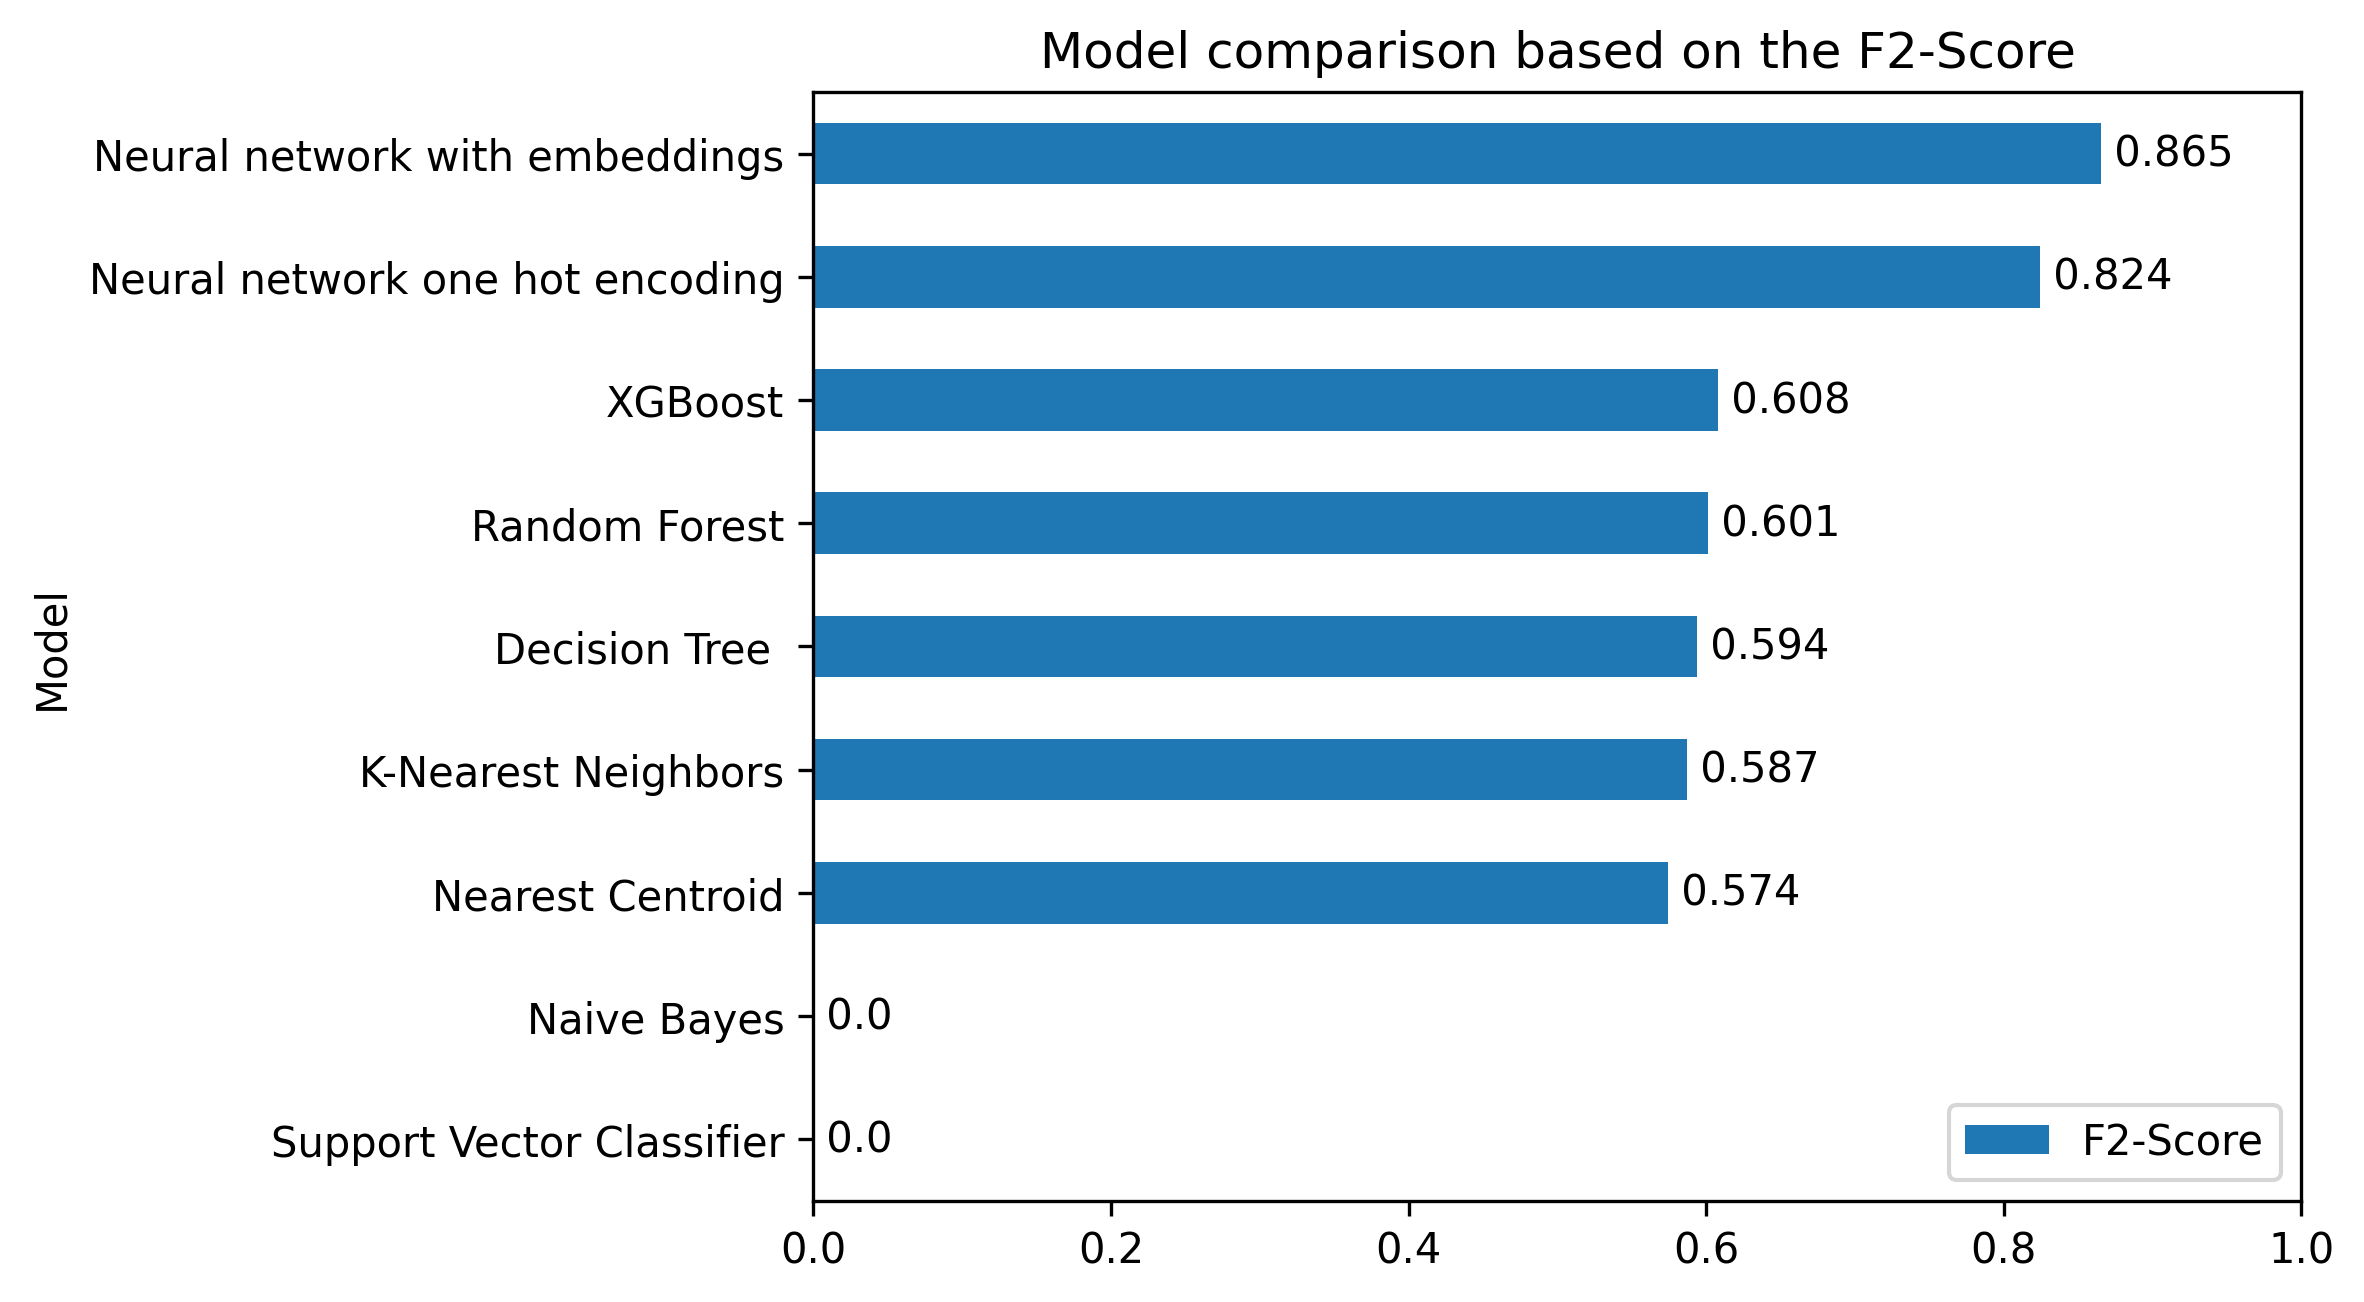
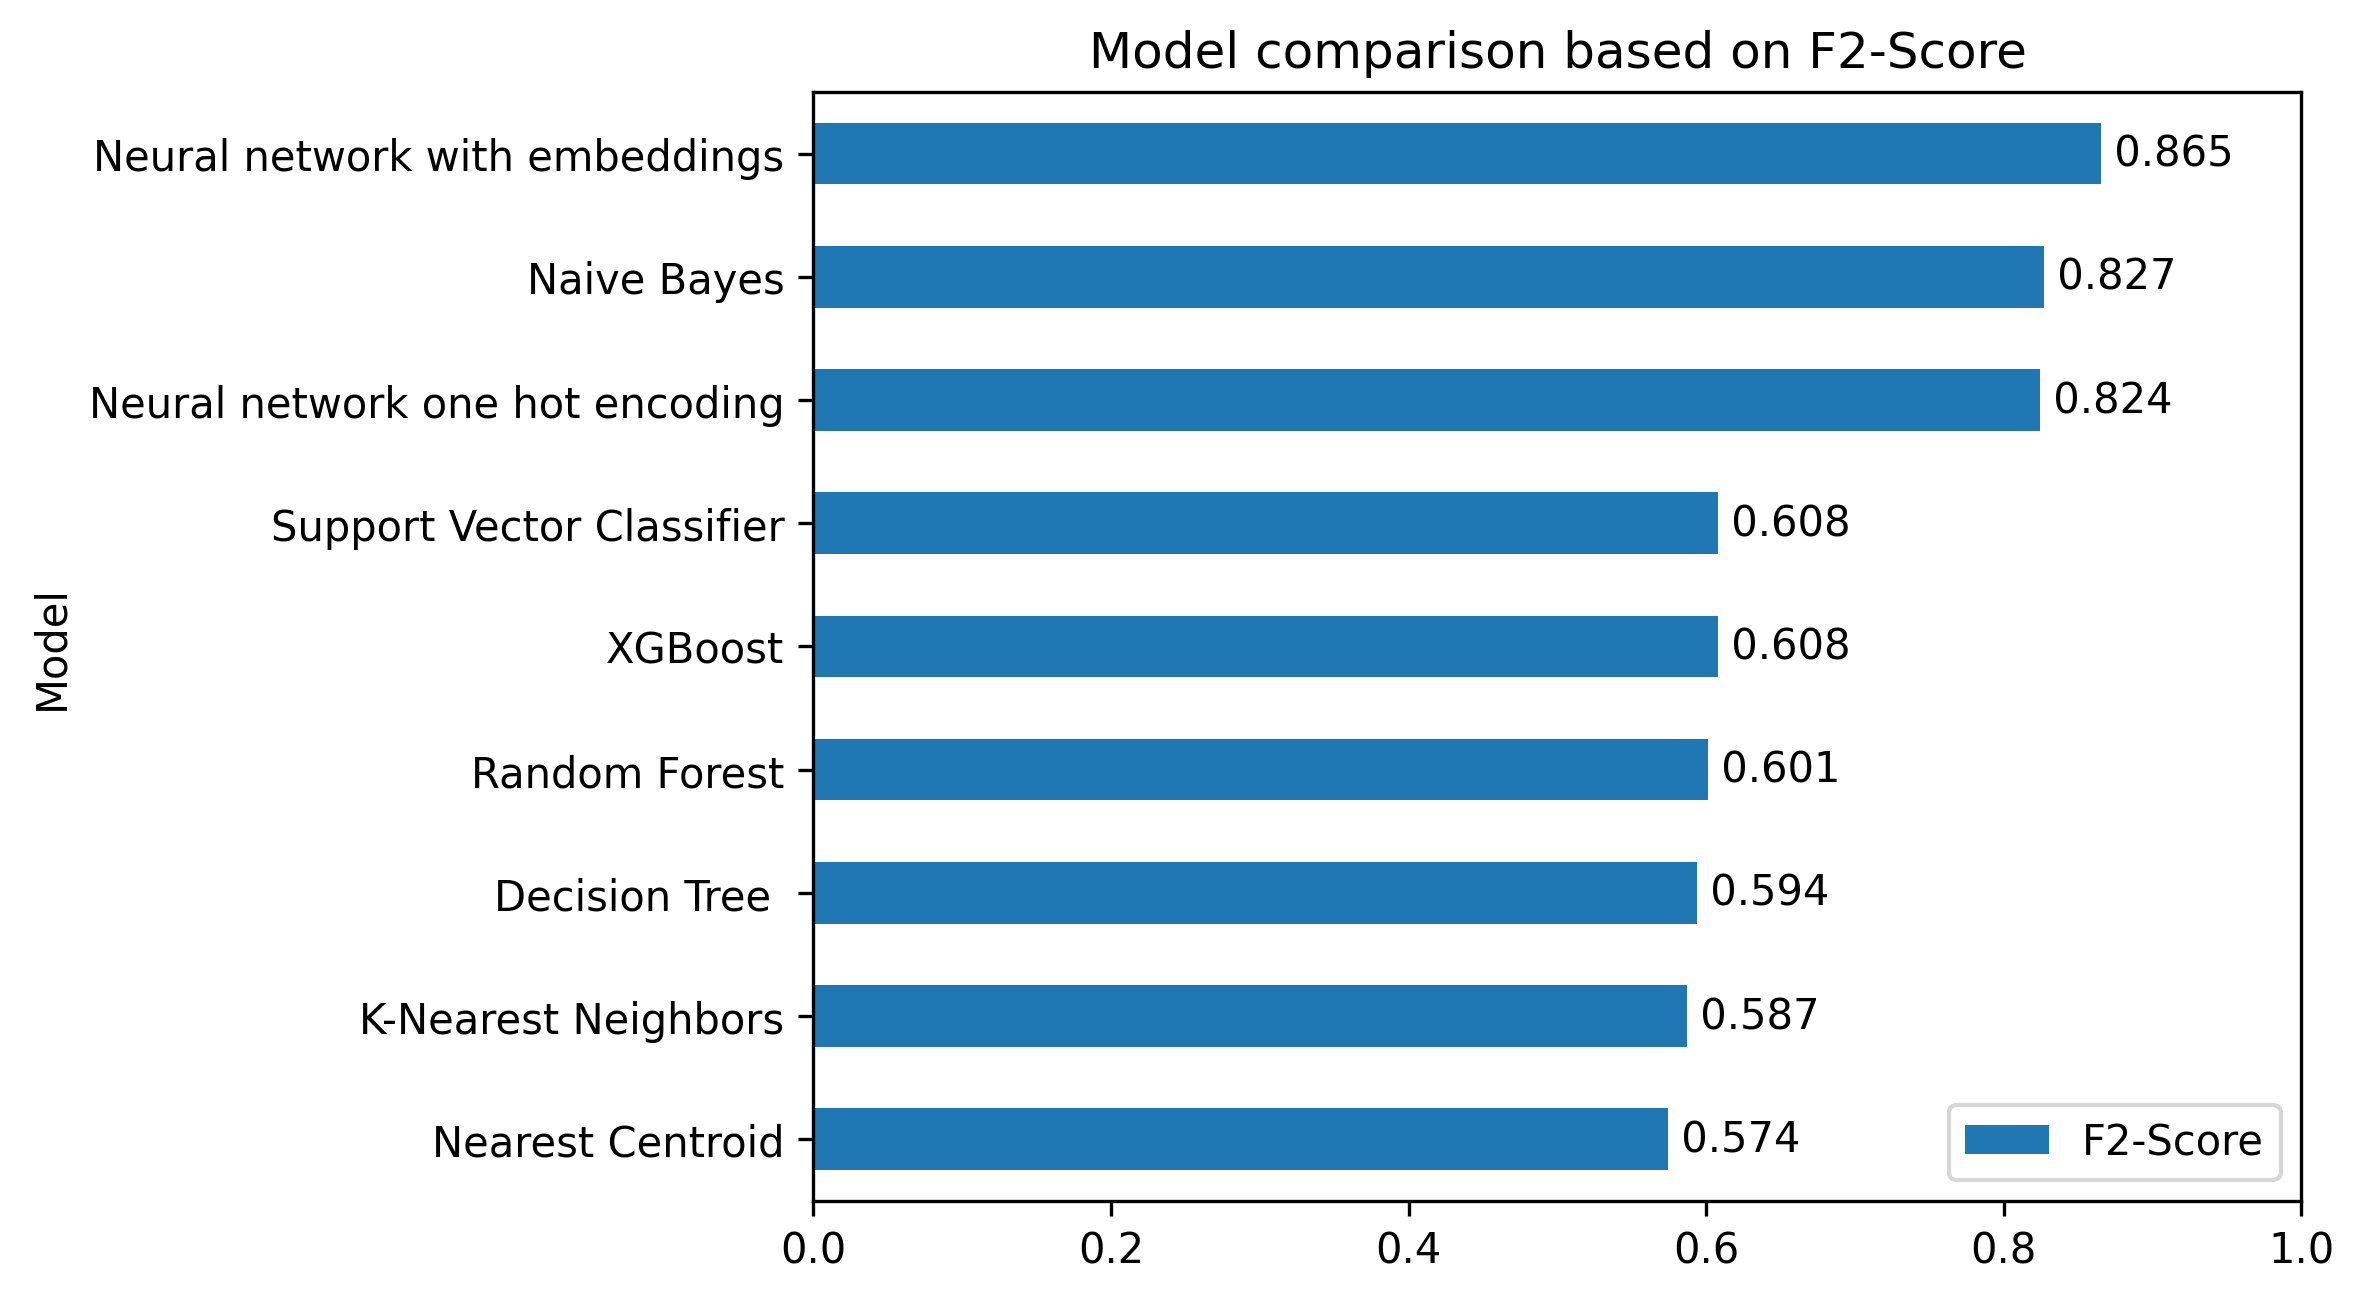
update results

diff --git a/README.md b/README.md
@@ -82,8 +82,8 @@ concatenated and passed into multiple linear layers.
 | Decision Tree                   | 0.5947951590481642 |
 | Random Forest                   | 0.6011349227795215 |
 | XGBoost                         | 0.6086731525564065 |
-| Support Vector Classifier       |                    |
-| Naive Bayes                     |                    |
+| Support Vector Classifier       | 0.6083371698823924 |
+| Naive Bayes                     | 0.8274523809825522 |
 | Neural network with embeddings  | 0.8655531658316447 |
 | Neural network one hot encoding | 0.8242131481621253 |
 
